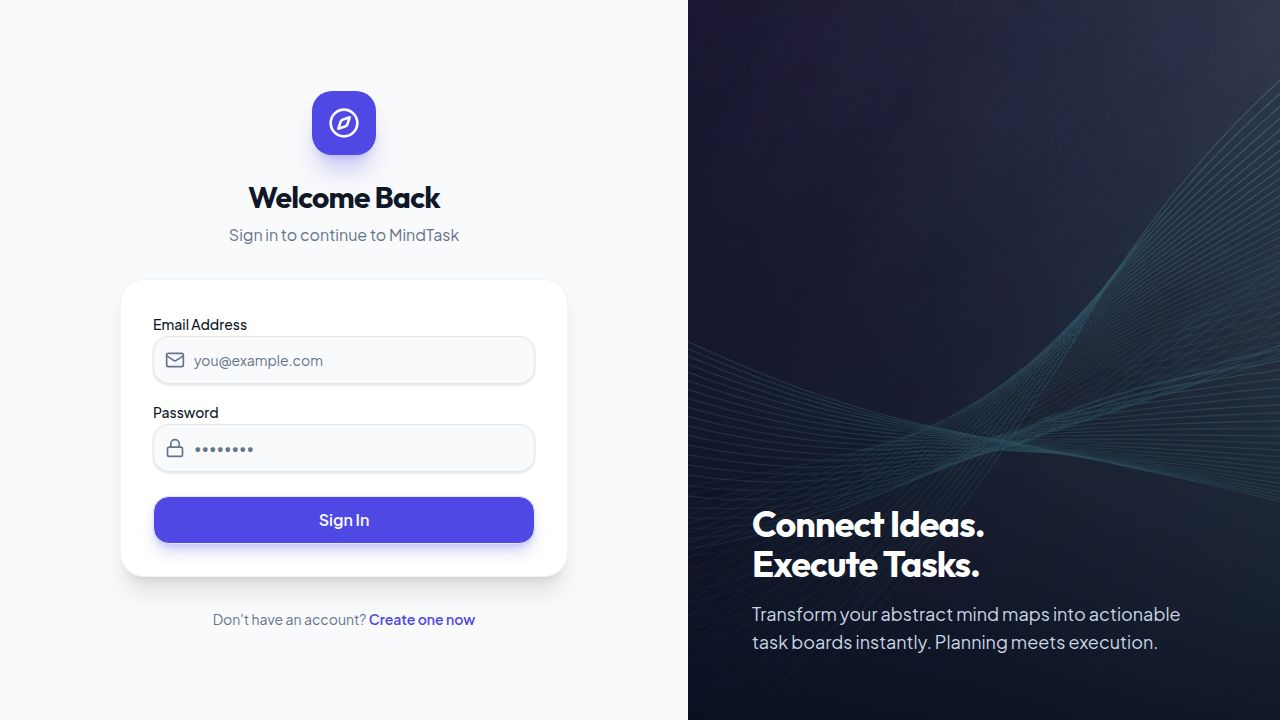
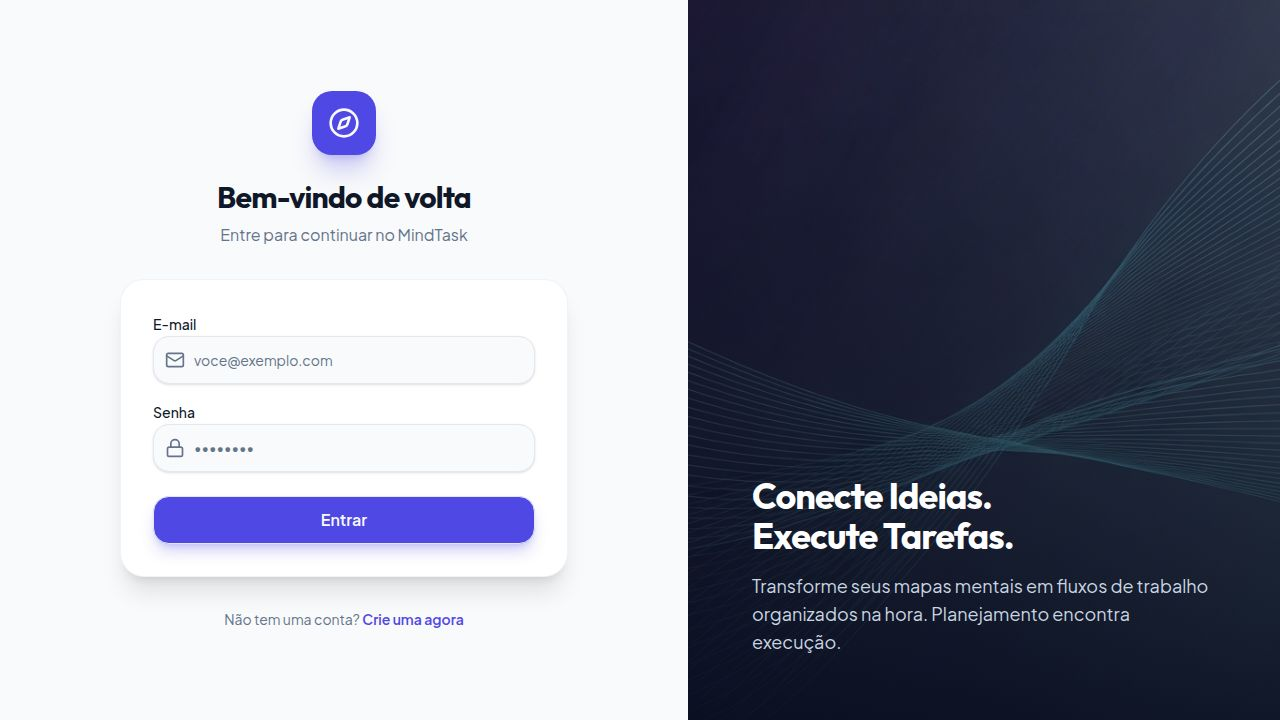
Remove outdated save confirmation and update card panel layout
Refactor CardPanel component by removing the `flashSaved` state, `savedTimerRef`, and `showSaved` state. Replaced `flashSaved()` calls with `invalidate()` and removed unused imports like `Check` from lucide-react. Adjusted the UI by removing the "Editar Card" header and "Atualize o nó e sua tarefa" description, making the task title the primary element and positioning the delete button in the top-right corner.

Replit-Commit-Author: Agent
Replit-Commit-Session-Id: 2004fccf-fbfa-4667-a31d-4d817f4aa332
Replit-Commit-Checkpoint-Type: full_checkpoint
Replit-Commit-Event-Id: 65a7ee41-6b35-49d2-936a-7b044cbd2fed
Replit-Commit-Screenshot-Url: https://storage.googleapis.com/screenshot-production-us-central1/7620fe4c-85dc-401c-8ad4-c4a91c2b26cb/2004fccf-fbfa-4667-a31d-4d817f4aa332/fWTgv33
Replit-Helium-Checkpoint-Created: true

diff --git a/artifacts/mindtask-app/src/components/maps/CardPanel.tsx b/artifacts/mindtask-app/src/components/maps/CardPanel.tsx
@@ -1,7 +1,7 @@
-import { useState, useEffect, useRef } from "react";
-import { Sheet, SheetContent, SheetHeader, SheetTitle, SheetDescription } from "@/components/ui/sheet";
+import { useState, useEffect } from "react";
+import { Sheet, SheetContent } from "@/components/ui/sheet";
 import { useGetCard, useUpdateCard, useCreateTask, useUpdateTaskDetails, useUpdateTaskStatus, useListWorkspaceMembers, useDeleteCard, useGetMe } from "@workspace/api-client-react";
-import { Loader2, Trash2, Flag, Calendar, User, AlertTriangle, Check } from "lucide-react";
+import { Loader2, Trash2, Flag, Calendar, User, AlertTriangle } from "lucide-react";
 import { CommentsSection } from "@/components/maps/CommentsSection";
 import { Button } from "@/components/ui/button";
 import { Input } from "@/components/ui/input";
@@ -44,14 +44,6 @@ export function CardPanel({ workspaceId, mapId, cardId, onClose }: CardPanelProp
   const [taskAssignee, setTaskAssignee] = useState<string>("unassigned");
   const [taskDueDate, setTaskDueDate] = useState<string>("");
   const [showDeleteCard, setShowDeleteCard] = useState(false);
-  const [showSaved, setShowSaved] = useState(false);
-  const savedTimerRef = useRef<ReturnType<typeof setTimeout> | null>(null);
-
-  const flashSaved = () => {
-    if (savedTimerRef.current) clearTimeout(savedTimerRef.current);
-    setShowSaved(true);
-    savedTimerRef.current = setTimeout(() => setShowSaved(false), 2500);
-  };
 
   useEffect(() => {
     if (card) {
@@ -101,7 +93,7 @@ export function CardPanel({ workspaceId, mapId, cardId, onClose }: CardPanelProp
     if (!cardId) return;
     updateCardMut.mutate(
       { workspaceId, mapId, cardId, data: { title: cardTitle, description: cardDesc } },
-      { onSuccess: () => { invalidate(); flashSaved(); } }
+      { onSuccess: () => { invalidate(); } }
     );
   };
 
@@ -119,7 +111,7 @@ export function CardPanel({ workspaceId, mapId, cardId, onClose }: CardPanelProp
           dueDate: dueDate ? new Date(dueDate + "T00:00:00").toISOString() : null,
         }
       },
-      { onSuccess: () => { invalidate(); flashSaved(); } }
+      { onSuccess: () => { invalidate(); } }
     );
   };
 
@@ -154,7 +146,7 @@ export function CardPanel({ workspaceId, mapId, cardId, onClose }: CardPanelProp
     setTaskStatus(val);
     updateTaskStatusMut.mutate(
       { workspaceId, mapId, cardId, data: { status: val as any } },
-      { onSuccess: () => { invalidate(); flashSaved(); } }
+      { onSuccess: () => { invalidate(); } }
     );
   };
 
@@ -183,45 +175,29 @@ export function CardPanel({ workspaceId, mapId, cardId, onClose }: CardPanelProp
             </div>
           ) : (
             <>
-              {/* Header */}
-              <div className="p-6 bg-slate-50 dark:bg-slate-900 border-b">
-                <div className="flex items-center justify-between">
-                  <SheetHeader className="text-left flex-1">
-                    <SheetTitle className="text-xl font-display">Editar Card</SheetTitle>
-                    {showSaved ? (
-                      <p className="text-sm text-emerald-600 dark:text-emerald-400 flex items-center gap-1 font-medium">
-                        <Check className="w-3.5 h-3.5" /> Edições salvas
-                      </p>
-                    ) : (
-                      <SheetDescription className="text-sm">Atualize o nó e sua tarefa.</SheetDescription>
-                    )}
-                  </SheetHeader>
-                  <div className="flex items-center gap-1 ml-4">
-                    <Button
-                      variant="ghost"
-                      size="icon"
-                      onClick={() => setShowDeleteCard(true)}
-                      className="h-8 w-8 text-muted-foreground hover:text-destructive hover:bg-destructive/10 rounded-lg"
-                      title="Deletar card"
-                    >
-                      <Trash2 className="w-4 h-4" />
-                    </Button>
-                  </div>
-                </div>
-              </div>
-
               {/* Form */}
               <div className="p-5 space-y-4 flex-1">
 
-                {/* Title */}
-                <div>
-                  <label className="text-xs font-semibold text-muted-foreground uppercase tracking-wider mb-1 block">Título</label>
-                  <Input
-                    value={cardTitle}
-                    onChange={e => setCardTitle(e.target.value)}
-                    onBlur={saveCard}
-                    className="bg-background rounded-xl"
-                  />
+                {/* Title + actions */}
+                <div className="flex items-end gap-2">
+                  <div className="flex-1">
+                    <label className="text-xs font-semibold text-muted-foreground uppercase tracking-wider mb-1 block">Título</label>
+                    <Input
+                      value={cardTitle}
+                      onChange={e => setCardTitle(e.target.value)}
+                      onBlur={saveCard}
+                      className="bg-background rounded-xl"
+                    />
+                  </div>
+                  <Button
+                    variant="ghost"
+                    size="icon"
+                    onClick={() => setShowDeleteCard(true)}
+                    className="h-9 w-9 shrink-0 text-muted-foreground hover:text-destructive hover:bg-destructive/10 rounded-lg mb-0.5"
+                    title="Deletar card"
+                  >
+                    <Trash2 className="w-4 h-4" />
+                  </Button>
                 </div>
 
                 {/* Description */}